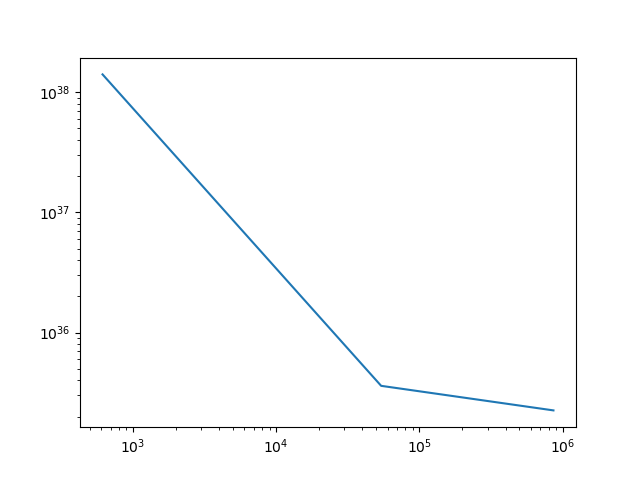
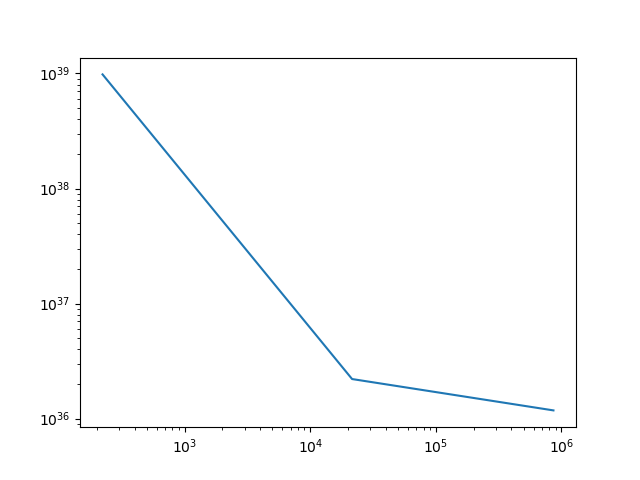
Fixed temperature plot, indecies are still to fix and code to clean

diff --git a/function_declaration.py b/function_declaration.py
@@ -56,22 +56,22 @@ def mass_shell(mass_breakout,time,time_transition,poly_index,velo_index):
 def luminosity(time,time_breakout,time_transition,mass_breakout,velocity_breakout,poly_index):
     if time>time_transition:
 
-        luminosity_obs = (mass_breakout*velocity_breakout**2)
+        luminosity_obs = ((mass_breakout*velocity_breakout**2)
         /(time_breakout)
         *np.power(time_transition/time_breakout
         ,-4/3)
         *np.power(time/time_transition
         ,-(2.28*poly_index-2)
-        /(3*(1.19*poly_index+1)))
+        /(3*(1.19*poly_index+1))))
 
         return luminosity_obs
 
     else:
 
-        luminosity_obs = (mass_breakout*velocity_breakout**2)
+        luminosity_obs = ((mass_breakout*velocity_breakout**2)
         /(time_breakout)
         *np.power(time/time_breakout
-        ,-4/3)
+        ,-4/3))
 
         return luminosity_obs
 
@@ -80,20 +80,21 @@ def luminosity(time,time_breakout,time_transition,mass_breakout,velocity_breakou
 #the thermal coupling coefficent referred to as eta in the paper is calculated based on eq.10,16,18
 
 def coupling_coefficent(mass_shell, mass_breakout, time, time_breakout, time_transition, poly_index, velocity_breakout, density_breakout):
-    coupling_breakout = 0, 2 * np.power(velocity_breakout / 10 ** 4, 15 / 4) * np.power(density_breakout / 10 ** (-9), -1 / 8)
+    coupling_breakout = 0.2 * np.power(velocity_breakout*10**-7, 15 / 4) * np.power(density_breakout*10**(6), -1 / 8)
     coupling_shell = 0
 
     if time == time_breakout:
         coupling_shell = coupling_breakout
     if time<time_transition:
-        coupling_shell = eta_breakout * np.power(mass_shell / mass_breakout, -(17 * poly_index + 9) / (8 * poly_index + 8)) * np.power(time / time_breakout, -1 / 6)
+        coupling_shell = coupling_breakout * np.power(mass_shell / mass_breakout, -(17 * poly_index + 9) / (8 * poly_index + 8)) * np.power(time / time_breakout, -1 / 6)
     if time>time_transition:
-        coupling_shell = eta_breakout * np.power(mass_shell / mass_breakout, -(22.32 * poly_index + 17) / (8 * poly_index + 8)) * np.power(time_transition / time_breakout, -1 / 6) * np.power(time / time_transition, (42 * poly_index + 49) / (12 * (1, 19 * poly_index + 1)))
+        coupling_shell = coupling_breakout * np.power(mass_shell / mass_breakout, -(22.32 * poly_index + 17) / (8 * poly_index + 8)) * np.power(time_transition / time_breakout, -1 / 6) * np.power(time / time_transition, (42 * poly_index + 49) / (12 * (1.19 * poly_index + 1)))
     return coupling_shell
 
 #-----------------------------------------------------------------------------------------------------------------------
 
 def temp_blackbody(stellar_radius,time,time_breakout,time_transition,mass_breakout,velocity_breakout,poly_index):
+    stefan_boltzmann_constant = 5.67*10**(-8)
     temp_BB = np.power(luminosity(time,time_breakout,time_transition,mass_breakout,velocity_breakout,poly_index)/(4*np.pi*stellar_radius**2*stefan_boltzmann_constant),1/4)
     return temp_BB
 
@@ -123,7 +124,7 @@ def thompson_coefficent(luminosity_obs, stellar_radius,coupling_shell,density_br
         condition = 1
         while condition == 1:
             temp_new = coupling_shell**2*temp_BB*np.power(0.5*np.log(3*np.power((density_breakout*(time_breakout/time))/(10**(-6)),-1/2)*np.power(temp_breakout*boltzmann_constant/100))*(1.6+np.log(3*np.power((density_breakout*(time_breakout/time))/(10**(-6)),-1/2)*np.power(temp_breakout*boltzmann_constant/100))),-2)
-            if ((temp_new-temp_breakout)**2)**(0.5)<0.01:
+            if ((temp_obs_new-temp_obs)**2)**(0.5)<0.001:
                 condition = 0
                 temp_breakout = temp_new
                 return thompson_coefficent, temp_breakout, temp_BB
@@ -134,34 +135,96 @@ def thompson_coefficent(luminosity_obs, stellar_radius,coupling_shell,density_br
 
 #-----------------------------------------------------------------------------------------------------------------------------
 
-def temp_observable(temp_BB,thompson_shell,time,time_breakout,time_transition,velocity_breakout,poly_index, mass_breakout, stellar_radius):
-coupling_shell = coupling_coefficent(mass_shell, mass_breakout, time, time_breakout, time_transition, poly_index, velocity_breakout, density_breakout)
+def temp_observable(time,time_breakout,time_transition,velocity_breakout,poly_index, mass_breakout, stellar_radius, velo_index,density_breakout):
+    mass_s = mass_shell(mass_breakout,time,time_transition,poly_index,velo_index)
+    boltzmann_constant = 8.62*10**(-5)
+    coupling_breakout = 0.2 * np.power(velocity_breakout*10**-7, 15 / 4) * np.power(density_breakout*10**(6), -1 / 8)
+    stefan_boltzmann_constant = 5.67*10**(-8)
+    temp_BB = np.power((mass_breakout*velocity_breakout**2)/(time_breakout*4*np.pi*stellar_radius**2*stefan_boltzmann_constant),1/4)
+    coupling_shell = coupling_coefficent(mass_s, mass_breakout, time, time_breakout, time_transition, poly_index, velocity_breakout, density_breakout)
     if time <= time_transition:
         if coupling_shell < 1:
-            temp_obs = temp_blackbody(stellar_radius,time_breakout,time_breakout,time_transition,mass_breakout,velocity_breakout,poly_index)*np.power(coupling_coefficent(mass_breakout, mass_breakout, time_breakout, time_breakout, time_transition, poly_index, velocity_breakout, density_breakout),(2*(poly_index+1)/(17*poly_index+9)))*np.power(time/time_breakout,-(2*(p*poly_index+5))/(3*(17*n+9)))
+            temp_obs = temp_BB*np.power(coupling_breakout,(2*(poly_index+1)/(17*poly_index+9)))*np.power(time/time_breakout,-(2*(9*poly_index+5))/(3*(17*poly_index+9)))
             return temp_obs
-        if coupling_shell > 1
+
+        if coupling_shell > 1:
             temp_breakout = coupling_shell**2*temp_BB
-            condition1 = 1
+            condition = 1
             while condition == 1:
-                temp_new = coupling_shell**2*temp_BB*np.power(0.5*np.log(3*np.power((density_breakout*(time_breakout/time_breakout))/(10**(-6)),-1/2)*np.power(temp_breakout*boltzmann_constant/100))*(1.6+np.log(3*np.power((density_breakout*(time_breakout/time_breakout))/(10**(-6)),-1/2)*np.power(temp_breakout*boltzmann_constant/100))),-2)
-                if ((temp_new-temp_breakout)**2)**(0.5)<0.01:
-                    condition1 = 0
-                    temp_obs_breakout = temp_new
-                    thompson_coefficent_breakout = np.power(0.5*np.log(3*np.power((density_breakout*(time_breakout/time_breakout))/(10**(-6)),-1/2)*np.power(temp_breakout*boltzmann_constant/100))*(1.6+np.log(3*np.power((density_breakout*(time_breakout/time_breakout))/(10**(-6)),-1/2)*np.power(temp_breakout*boltzmann_constant/100))),-2)
+                A = 3*np.power((density_breakout*(time_breakout/time_breakout))/(10**(-6)),-1/2)*np.power(temp_breakout*boltzmann_constant/100,9/4)
+                if A< 1 or 0.5*np.log(A)*(1.6+np.log(A))<1:
+                    thompson_coefficent_breakout = 1
+                    temp_obs_breakout = coupling_shell**2*temp_BB
+                    condition = 0
+                    print("first loop xi is smaller than 1")
+
                 else:
-                    temp_breakout = temp_new
+
+                    temp_new = coupling_shell**2*temp_BB*np.power(0.5*np.log(A*B)*(1.6+np.log(A*B)),-2)
+                    print("first loop" + str(temp_new))
+                    if ((temp_new-temp_breakout)**2)**(0.5)<1:
+                        condition = 0
+                        temp_obs_breakout = temp_new
+                        thompson_coefficent_breakout = 0.5*np.log(A*B)*(1.6+np.log(A*B))
+
+
+                    else:
+                        temp_obs_breakout = temp_new
 
             temp_obs = temp_obs_breakout * np.power(time/time_breakout,-2/3)
             condition1 = 1
-            while condition == 1:
-                temp_obs_new = temp_obs_breakout*np.power(time/time_breakout,-2/3)*np.power((0.5*np.log(3*np.power(7*density_breakout/(10**(-6)),-1/2)*np.power(temp_breakout*boltzmann_constant/100))*(1.6+np.log(3*np.power(7*density_breakout/(10**(-6)),-1/2)*np.power(temp_breakout*boltzmann_constant/100))))/thompson_coefficent_breakout,-2)
-                if ((temp_obs_new-temp_obs)**2)**(0.5)<0.01:
-                    condition1 = 0
+            while condition1 == 1:
+                A = 3*np.power((density_breakout*(time_breakout/time_breakout))/(10**(-6)),-1/2)*np.power(temp_breakout*boltzmann_constant/100,9/4)
+                if A< 1 or 0.5*np.log(A)*(1.6+np.log(A))<1:
+                    thompson_coefficent_obs = 1
+                    temp_obs_new = temp_obs_breakout*np.power(time/time_breakout,-2/3)*np.power(thompson_coefficent_obs/thompson_coefficent_breakout,-2)
                     temp_obs = temp_obs_new
-                    thompson_coefficent_obs = np.power(0.5*np.log(3*np.power(7*density_breakout/(10**(-6)),-1/2)*np.power(temp_breakout*boltzmann_constant/100))*(1.6+np.log(3*np.power(7*density_breakout/(10**(-6)),-1/2)*np.power(temp_breakout*boltzmann_constant/100))),-2)
+                    condition1 = 0
+                    return temp_obs
+                    print("second loop xi is smaller than 1")
                 else:
-                    temp_breakout = temp_new
+                    temp_obs_new = temp_obs_breakout*np.power(time/time_breakout,-2/3)*np.power(0.5*np.log(A)*(1.6+np.log(A))/thompson_coefficent_breakout,-2)
+                    print("second loop" + str(temp_obs_new))
+                    if ((temp_obs_new-temp_obs)**2)**(0.5)<1:
+                        condition1 = 0
+                        temp_obs = temp_obs_new
+                        return temp_obs
+        #            thompson_coefficent_obs = np.power(0.5*np.log(3*np.power(7*density_breakout/(10**(-6)),-1/2)*np.power(temp_breakout*boltzmann_constant/100))*(1.6+np.log(3*np.power(7*density_breakout/(10**(-6)),-1/2)*np.power(temp_breakout*boltzmann_constant/100))),-2)
+                    else:
+                        temp_obs = temp_obs_new
 
+    if time>time_transition:
+
+        if coupling_shell < 1:
+
+            temp_obs=(temp_BB
+                    *np.power(coupling_breakout,2*(1.76*poly_index+1)/(22.32*poly_index+17))
+                    *np.power(time_transition/time_breakout,-(8.03*poly_index+6)/(22.32*poly_index+17))
+                    *np.power(time/time_transition,-(18.48*poly_index**2+20.69*poly_index+6)/((1.19*poly_index+1)*(22.32*poly_index+17))))
+
+            return temp_obs
+
+        if coupling_shell > 1:
+
+            time_1 = (time_transition
+                    *np.power(coupling_breakout*np.power(time_breakout/time_transition,1/6),3*(1.19*poly_index+1)/(9.88*poly_index+5)))
+            time2 = (time_transition
+                    *np.power(coupling_breakout*np.power(time_breakout/time_transition,1/6),6*(1.19*poly_index+1)/(12.48*poly_index+1)))
+
+
+
+            if time<time2 and time>time_1:
+                temp_obs = (temp_BB*np.power(coupling_breakout,2)*np.power(time_transition/time_breakout,-2/3)*np.power(time_1/time_transition,-(21.27*poly_index+11)/(3*(1.19*poly_index+1)))*np.power(time/time_1,-(3*poly_index+2)/(6*(1.19*poly_index+1))))
+
+                return temp_obs
+
+            if time > time2:
+
+                temp_obs=(temp_BB
+                    *np.power(coupling_breakout,2*(1.76*poly_index+1)/(22.32*poly_index+17))
+                    *np.power(time_transition/time_breakout,-(8.03*poly_index+6)/(22.32*poly_index+17))
+                    *np.power(time/time_transition,-(18.48*poly_index**2+20.69*poly_index+6)/((1.19*poly_index+1)*(22.32*poly_index+17))))
+
+                return temp_obs
 
     return temp_obs

diff --git a/testing.py b/testing.py
@@ -1,17 +1,17 @@
 import numpy as np
-import spherical_phase as sp
+import function_declaration as fd
 import matplotlib.pyplot as plt
 
 solar_M = 2e30
 solar_R = 6.96e8
 R = 500*solar_R
-M = 15*solar_M
+M = 7.5*solar_M
 n = 1.5
 L = 3.8e26
 kappa = 0.034
 mu = 0.19
-E_51 = 1
-M_15 = 1
+E_51 = 3
+M_15 = 0.5
 c = 3e8
 n_d = 10
 stefan_boltzmann_constant = 5.67*10**(-8)
@@ -61,13 +61,15 @@ print_time = np.zeros(n_d*24*3600-int(t_0))
 for time in range(int(t_0),n_d*24*3600):
     luminosity_obs[time-int(t_0)] = luminosity(time,t_0,t_s,m_0,v_0,n)
     print_time[time-int(t_0)] = time
-    if time>t_s:
-        temp[time-int(t_0)] = sp.temp_observable(time,t_0,t_s,v_0,n, m_0, R,mu, rho_0)
+    temp[time-int(t_0)] = fd.temp_observable(time,t_0,t_s,v_0,n, m_0, R,mu, rho_0)
+
 
 
 
 plt.loglog(print_time,luminosity_obs)
 plt.savefig("Plots\Luminosity.png")
+
+plt.clf()
 
 plt.loglog(print_time,temp)
 plt.savefig("Plots\Temperature.png")

diff --git a/spherical_phase.py b/spherical_phase.py
@@ -62,7 +62,7 @@ def temp_observable(time,time_breakout,time_transition,velocity_breakout,poly_in
 
             return temp_obs
 
-        if time >time2:
+        if time > time2:
 
             temp_obs=(temp_BB
                 *np.power(coupling_breakout,2*(1.76*poly_index+1)/(22.32*poly_index+17))
